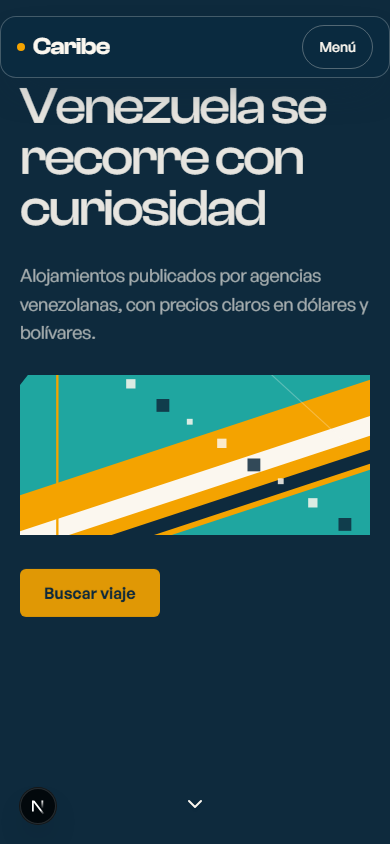
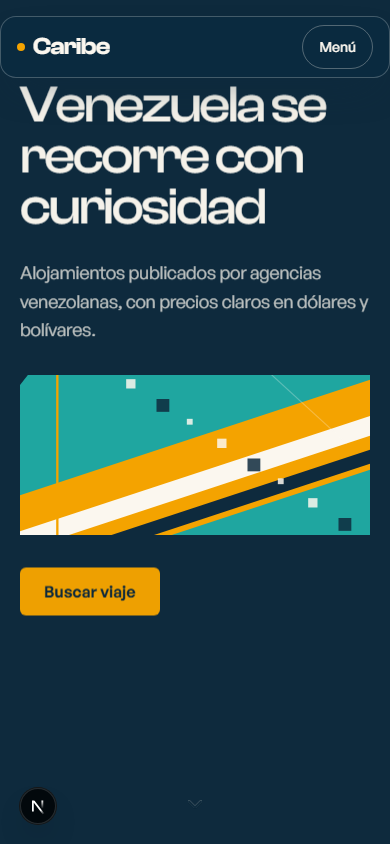
feat(web): dar 100vh a las secciones de la portada
Hero, buscador, destacados y cierre miden al menos el alto del viewport. Anado una tercera flecha de destacados al cierre y un CTA hacia el buscador, con textos nuevos en es y en.

Task: T-NAV-15

Changed region(s): [[0.0615, 0.0924, 0.8308, 0.2773], [0.0308, 0.3081, 0.9538, 0.4005], [0.1231, 0.6777, 0.3385, 0.7393]]

diff --git a/apps/web/src/components/featured-stays.tsx b/apps/web/src/components/featured-stays.tsx
@@ -7,6 +7,7 @@ import { localizedText } from "@/lib/catalog-view";
 import { featuredApiUrl, FEATURED_LIMIT, featuredUsd, featuredVes } from "@/lib/featured-view";
 import { localizedPath } from "@/lib/localized-path";
 import { parseCatalogPageView, type CatalogOfferView } from "@/lib/search-view";
+import { ScrollCue } from "./scroll-cue";
 
 export interface FeaturedLabels {
   title: string;
@@ -19,6 +20,7 @@ export interface FeaturedLabels {
   package: string;
   flight: string;
   comingSoon: string;
+  scrollToClosing: string;
 }
 
 interface FeaturedStaysViewProps {
@@ -36,8 +38,11 @@ export function FeaturedStaysView({ items, status, locale, labels }: FeaturedSta
   const soon = [labels.tour, labels.package, labels.flight];
 
   return (
-    <section id="destacados" className="scroll-target border-t border-ink/10 bg-bone py-16">
-      <div className="mx-auto max-w-6xl space-y-8 px-5 lg:px-10">
+    <section
+      id="destacados"
+      className="scroll-target relative flex min-h-dvh flex-col justify-center border-t border-ink/10 bg-bone py-24"
+    >
+      <div className="mx-auto w-full max-w-6xl space-y-8 px-5 lg:px-10">
         <div className="max-w-2xl space-y-2">
           <h2 className="scroll-rise font-display text-h2 text-ink">{labels.title}</h2>
           <p className="scroll-rise text-body-lg text-ink/70">{labels.subtitle}</p>
@@ -100,6 +105,7 @@ export function FeaturedStaysView({ items, status, locale, labels }: FeaturedSta
           ))}
         </ul>
       </div>
+      <ScrollCue targetId="cierre" label={labels.scrollToClosing} tone="on-light" />
     </section>
   );
 }
@@ -152,6 +158,7 @@ export function FeaturedStaysPanel({ locale }: { locale: Locale }) {
     package: t("featuredPackage"),
     flight: t("featuredFlight"),
     comingSoon: t("featuredComingSoon"),
+    scrollToClosing: t("scrollToClosing"),
   };
   return <FeaturedStays locale={locale} labels={labels} />;
 }

diff --git a/apps/web/src/app/[locale]/page.tsx b/apps/web/src/app/[locale]/page.tsx
@@ -79,8 +79,21 @@ export default async function HomePage({ params }: HomePageProps) {
 
       <FeaturedStaysPanel locale={locale} />
 
-      <section className="border-t border-ink/10 bg-bone py-14">
-        <div className="mx-auto max-w-6xl px-5 lg:px-10">
+      <section
+        id="cierre"
+        className="scroll-target flex min-h-dvh flex-col justify-center border-t border-ink/10 bg-bone py-24"
+      >
+        <div className="mx-auto w-full max-w-6xl space-y-10 px-5 lg:px-10">
+          <div className="max-w-2xl space-y-3">
+            <h2 className="scroll-rise font-display text-h2 text-ink">{t("closingTitle")}</h2>
+            <p className="scroll-rise text-body-lg text-ink/70">{t("closingDescription")}</p>
+            <Link
+              href="/search"
+              className="scroll-rise mt-2 inline-flex h-12 items-center rounded-md bg-ink px-6 font-semibold text-bone hover:bg-ink/85 focus-visible:outline-2 focus-visible:outline-offset-2 focus-visible:outline-amber"
+            >
+              {t("cta")}
+            </Link>
+          </div>
           <ul className="grid gap-6 sm:grid-cols-3">
             {features.map((feature) => (
               <li key={feature.title} className="scroll-rise space-y-2 border-t-4 border-teal pt-4">

diff --git a/apps/web/test/featured-stays.test.ts b/apps/web/test/featured-stays.test.ts
@@ -18,6 +18,7 @@ const labels: FeaturedLabels = {
   package: "Paquetes",
   flight: "Vuelos",
   comingSoon: "Próximamente",
+  scrollToClosing: "Ir al cierre",
 };
 
 function offer(overrides: Partial<CatalogOfferView> = {}): CatalogOfferView {
@@ -61,6 +62,8 @@ describe("alojamientos destacados", () => {
       ),
     );
     expect(html).toContain('id="destacados"');
+    expect(html).toContain('min-h-dvh');
+    expect(html).toContain('href="#cierre"');
     expect(html).toContain("Posada Malvin");
     expect(html).toContain("Hotel Sol");
     expect(html).toContain("120,00");

diff --git a/openspec/changes/f1-navigation-refresh/tasks.md b/openspec/changes/f1-navigation-refresh/tasks.md
@@ -25,7 +25,7 @@ Una tarea a la vez. Capturas de escritorio y móvil antes de cada commit en
   Prueba: escenarios «Selector de idioma con banderas» de `specs/web-ui/spec.md`; capturas de cabecera en escritorio y móvil; lint, typecheck y tests en verde.
 - [x] T-NAV-14 Convertir la cabecera en una barra flotante centrada, semitransparente y con desenfoque, con logo a la izquierda, enlaces a productos (`/search` con filtro `type`), sesión, idioma y tasa BCV.
   Prueba: escenarios «Cabecera flotante» de `specs/web-ui/spec.md`; capturas de cabecera en escritorio y móvil; lint, typecheck y tests en verde.
-- [ ] T-NAV-15 Dar al menos 100vh a hero, búsqueda, destacados y cierre, con flecha de hero a búsqueda, de búsqueda a destacados y de destacados al cierre con CTA.
+- [x] T-NAV-15 Dar al menos 100vh a hero, búsqueda, destacados y cierre, con flecha de hero a búsqueda, de búsqueda a destacados y de destacados al cierre con CTA.
   Prueba: escenario «Secciones a pantalla completa» de `specs/web-ui/spec.md`; `verify:navigation`; capturas de portada en escritorio y móvil; lint, typecheck y tests en verde.
 - [ ] T-NAV-16 Suavizar las transiciones de entrada, revelación y cabecera de la portada con degradación segura bajo movimiento reducido.
   Prueba: escenario «Transiciones suaves» de `specs/web-ui/spec.md`; capturas de portada en escritorio y móvil; lint, typecheck y tests en verde.
